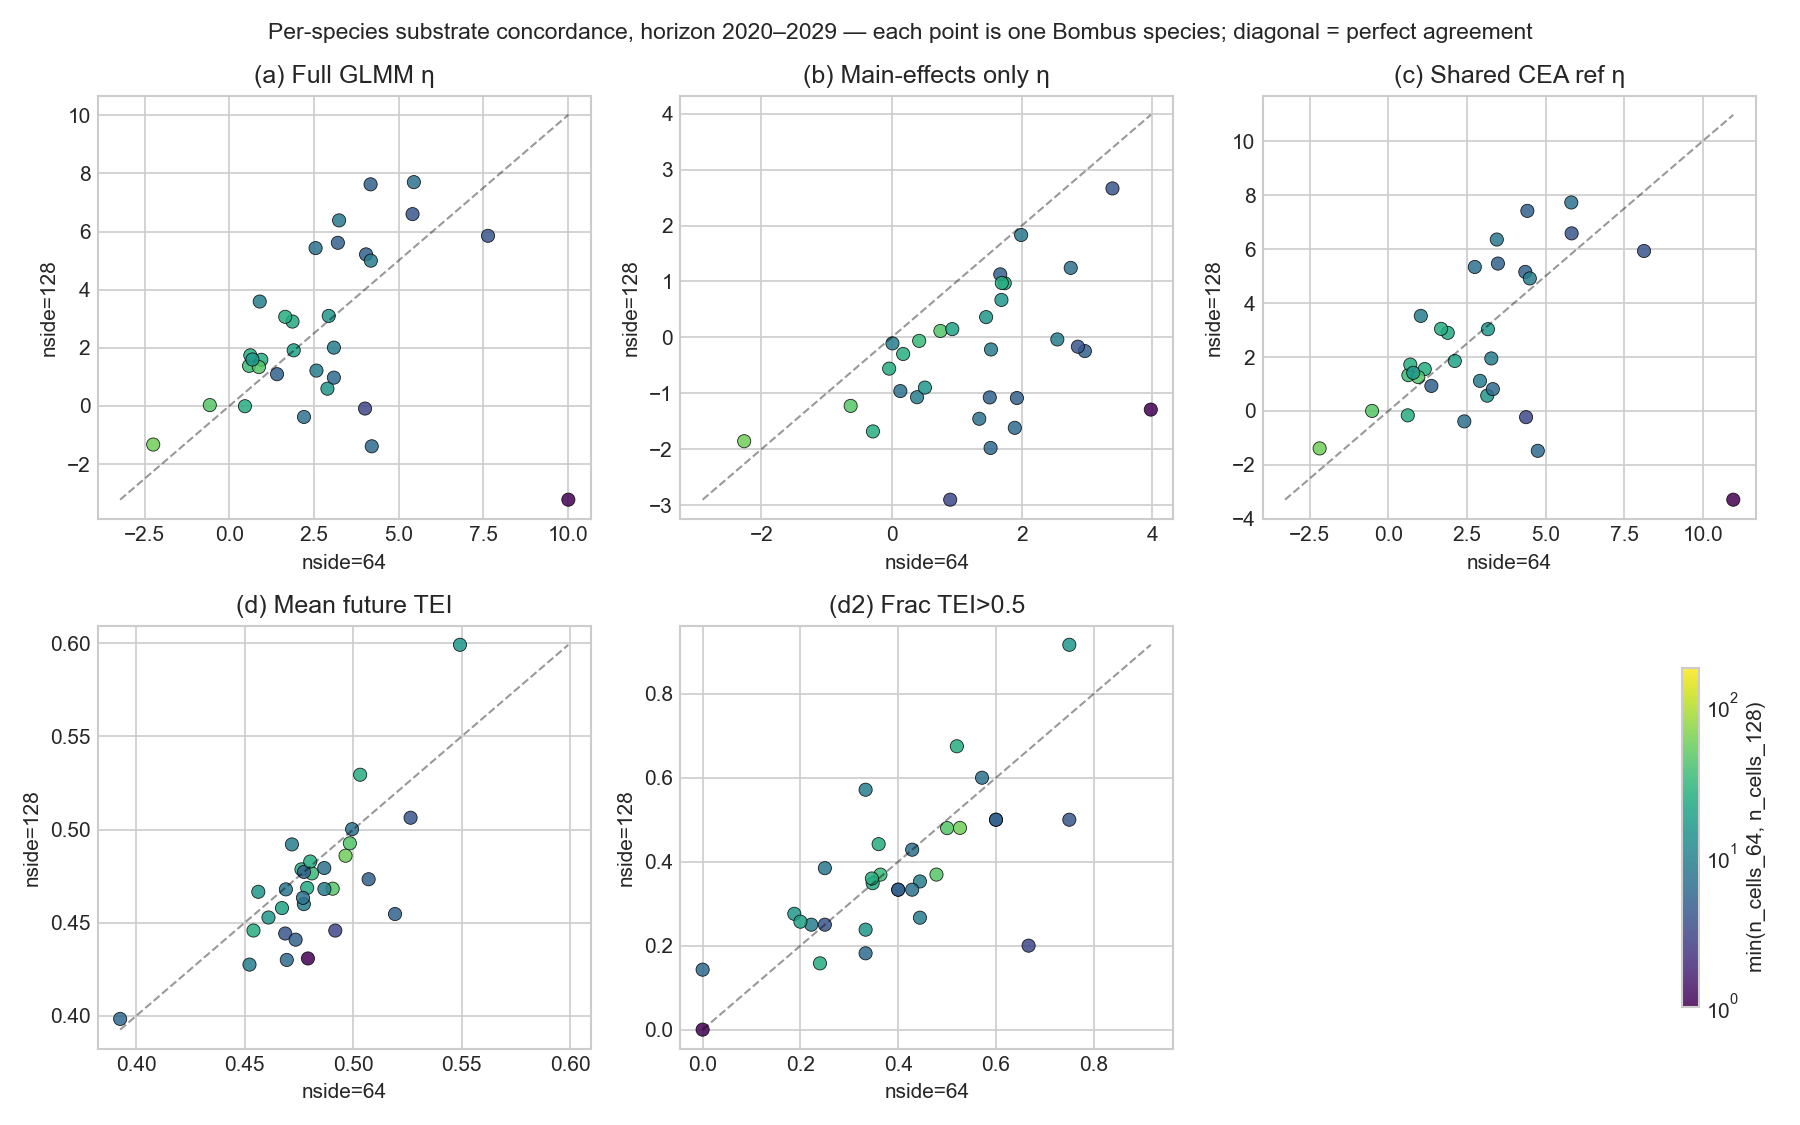
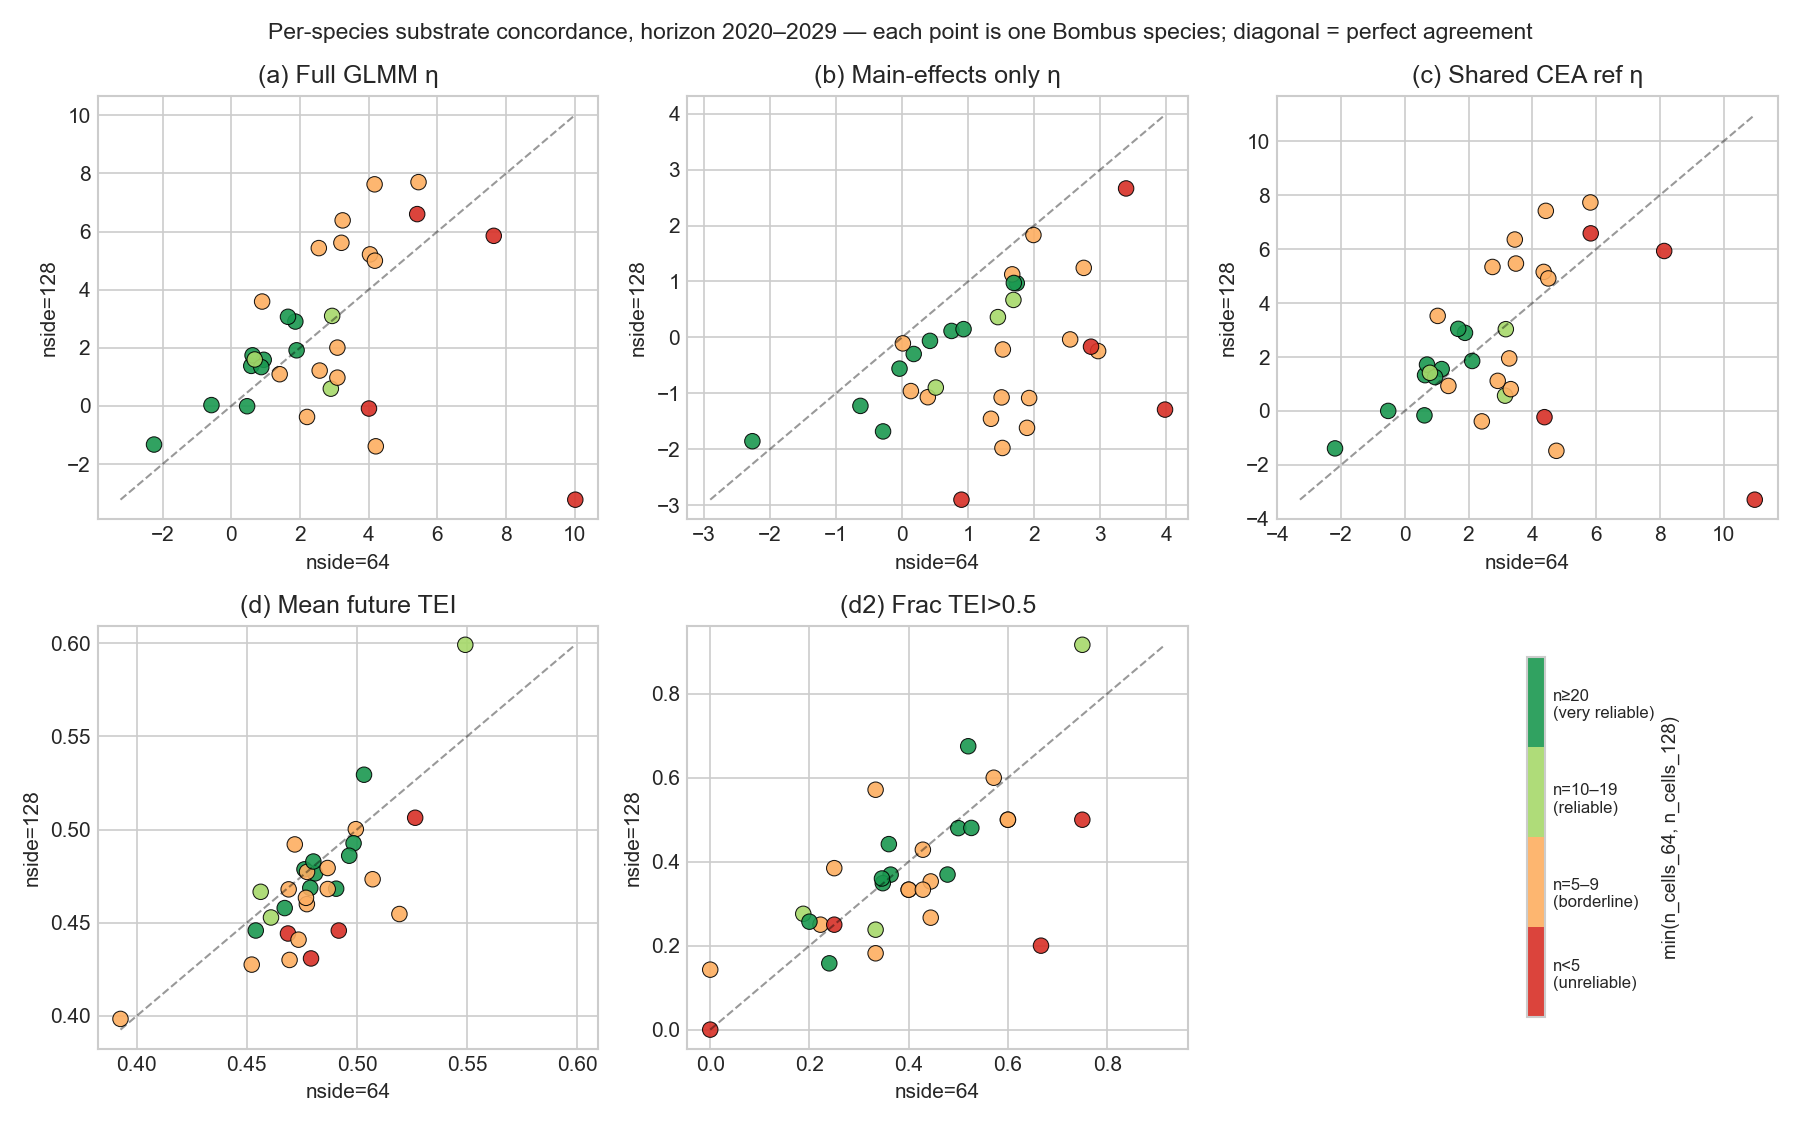
Variant pair-plots: discrete colormap on the analytical n_cells thresholds (sync from upstream)

diff --git a/scripts/plot_variant_concordance.py b/scripts/plot_variant_concordance.py
@@ -72,7 +72,9 @@ def main(horizon: str):
     plt.close(fig)
     print(f"  wrote {out1}")
 
-    # Per-variant scatter — colour by n_cells
+    # Per-variant scatter — colour by n_cells using the analytical thresholds
+    # we actually report on (the same filters used in the concordance heatmap).
+    # Discrete bins so the visual signal is "red = unreliable, green = trust".
     fig, axes = plt.subplots(2, 3, figsize=(12, 7.5), dpi=150)
     axes = axes.flatten()
     pairs = [
@@ -82,12 +84,16 @@ def main(horizon: str):
         ("d_frac_64", "d_frac_128", "(d) Mean future TEI"),
         ("d2_frac_64", "d2_frac_128", "(d2) Frac TEI>0.5"),
     ]
-    n_max = max(df["n_cells_64"].max(), df["n_cells_128"].max())
+    n_min = np.minimum(df["n_cells_64"], df["n_cells_128"]).astype(float)
+    n_top = float(max(n_min.max(), 20)) + 1
+    bin_edges = [1, 5, 10, 20, n_top]
+    bin_colors = ["#d73027", "#fdae61", "#a6d96a", "#1a9850"]
+    bin_labels = ["n<5\n(unreliable)", "n=5–9\n(borderline)", "n=10–19\n(reliable)", "n≥20\n(very reliable)"]
+    cmap = plt.matplotlib.colors.ListedColormap(bin_colors)
+    norm = plt.matplotlib.colors.BoundaryNorm(bin_edges, cmap.N)
     for ax, (xc, yc, title) in zip(axes, pairs):
-        n_min = np.minimum(df["n_cells_64"], df["n_cells_128"])
-        sc = ax.scatter(df[xc], df[yc], c=n_min, cmap="viridis",
-                        norm=plt.matplotlib.colors.LogNorm(vmin=1, vmax=n_max),
-                        s=40, alpha=0.85, edgecolor="k", linewidth=0.4)
+        sc = ax.scatter(df[xc], df[yc], c=n_min, cmap=cmap, norm=norm,
+                        s=55, alpha=0.9, edgecolor="k", linewidth=0.5)
         lo = float(np.nanmin([df[xc].min(), df[yc].min()]))
         hi = float(np.nanmax([df[xc].max(), df[yc].max()]))
         ax.plot([lo, hi], [lo, hi], "k--", alpha=0.4, linewidth=1)
@@ -95,7 +101,13 @@ def main(horizon: str):
         ax.set_ylabel("nside=128")
         ax.set_title(title)
     axes[-1].axis("off")
-    cbar = fig.colorbar(sc, ax=axes[-1], label="min(n_cells_64, n_cells_128)", shrink=0.8)
+    cbar = fig.colorbar(
+        sc, ax=axes[-1],
+        ticks=[3, 7, 14.5, (20 + n_top) / 2],  # midpoint of each bin
+        shrink=0.85, fraction=0.5,
+    )
+    cbar.ax.set_yticklabels(bin_labels, fontsize=8)
+    cbar.set_label("min(n_cells_64, n_cells_128)", fontsize=9)
     fig.suptitle(
         f"Per-species substrate concordance, horizon {horizon.replace('_', '–')} — "
         f"each point is one Bombus species; diagonal = perfect agreement",
